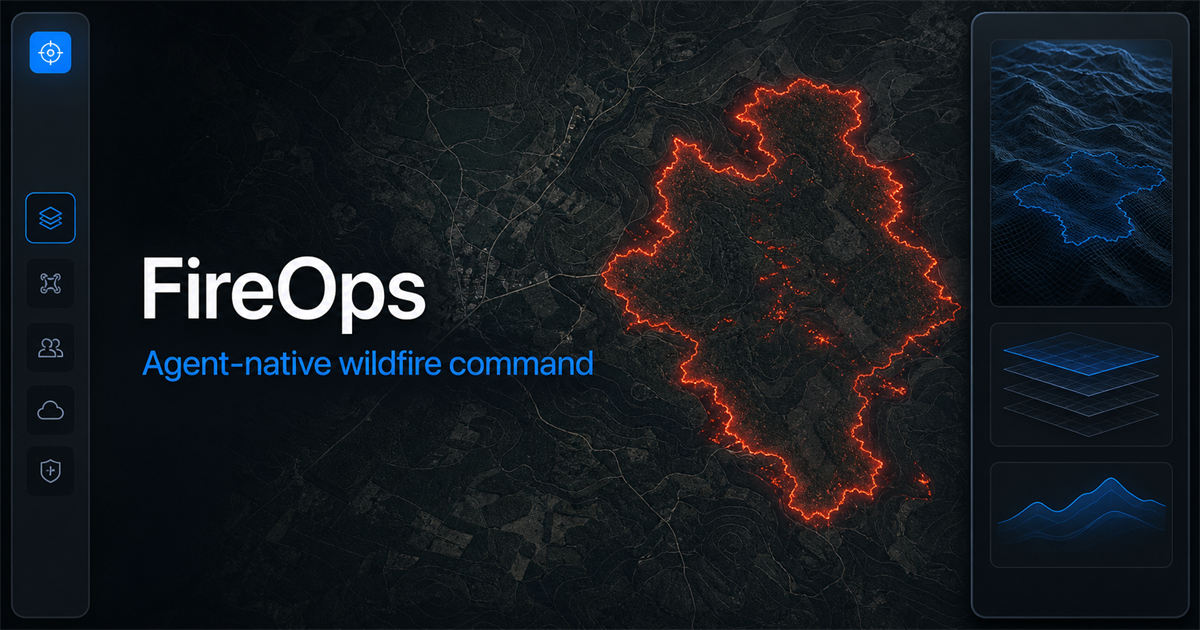
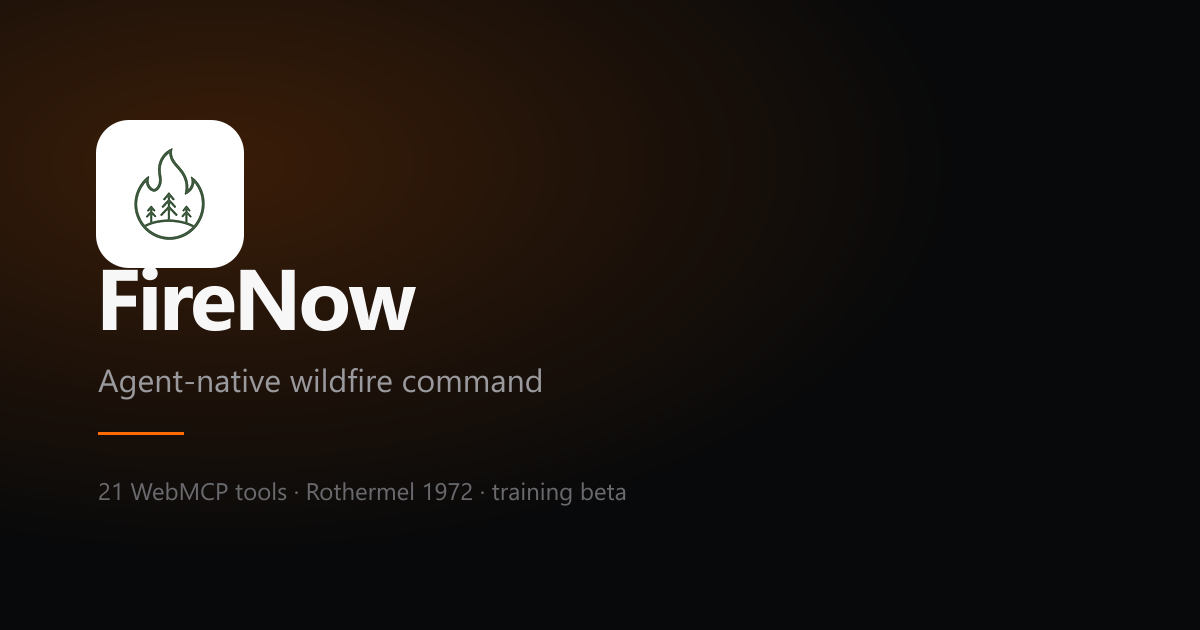
Rename the product to FireNow and build its marks from one source
The name changes everywhere it is user-visible or wire-visible: page title,
metadata, application name, session and CSRF cookie names, the worker's GeoJSON
provenance, the test harness hook, the package name and the licence holder.

Every icon now derives from a single file, brand/firenow.jpg, through
scripts/build-brand-assets.mjs. The mark is dark-green line art on white, which
reads on a light tile and vanishes on the near-black console, so the source is
turned into an alpha mask once and tinted twice: green for light surfaces, white
for dark ones. From that come the favicons at four sizes, the Apple touch icon
and a 1200x630 Open Graph card composed against the product palette.

The old favicon.svg was a generic blue placeholder unrelated to the product.

diff --git a/public/simulation.worker.js b/public/simulation.worker.js
@@ -1,4 +1,4 @@
-/* FireOps local wildfire engine: Rothermel (1972), Alexander (1985), 128 x 128 cellular grid. */
+/* FireNow local wildfire engine: Rothermel (1972), Alexander (1985), 128 x 128 cellular grid. */
 const GRID_SIZE = 128;
 // Nombre maximal de foyers secondaires acceptes en plus du foyer principal.
 const MAX_EXTRA_IGNITIONS = 16;
@@ -1140,18 +1140,18 @@ function ringsToGeoJSON(filled) {
 }
 function perimeterGeoJSON(sim) {
   const feature = ringsToGeoJSON((x, y) => sim.state[indexOf(x, y)] > 0);
-  feature.properties = { source: 'FireOps cellular simulation', layer: 'perimetre' };
+  feature.properties = { source: 'FireNow cellular simulation', layer: 'perimetre' };
   return feature;
 }
 // Bande en flammes : cellules encore dans leur temps de residence.
 function activeFrontGeoJSON(sim) {
   const feature = ringsToGeoJSON((x, y) => sim.state[indexOf(x, y)] === 1);
-  feature.properties = { source: 'FireOps cellular simulation', layer: 'front-actif' };
+  feature.properties = { source: 'FireNow cellular simulation', layer: 'front-actif' };
   return feature;
 }
 function extinguishedEdgeGeoJSON(sim) {
   const feature = ringsToGeoJSON((x, y) => sim.state[indexOf(x, y)] === 3);
-  feature.properties = { source: 'FireOps cellular simulation', layer: 'lisiere-eteinte' };
+  feature.properties = { source: 'FireNow cellular simulation', layer: 'lisiere-eteinte' };
   return feature;
 }
 function cloneState(sim){return{state:sim.state.slice(),arrival:sim.arrival.slice(),lowIntensitySince:sim.lowIntensitySince.slice(),constructedBreak:sim.constructedBreak.slice(),heldBreak:sim.heldBreak.slice(),lineProgressM:{...sim.lineProgressM},lineCellsBuilt:{...sim.lineCellsBuilt},explicitLinesReady:sim.explicitLinesReady,tacticalBurnsReady:sim.tacticalBurnsReady,fuel:sim.fuel.slice(),currentMinutes:sim.currentMinutes,ignition:sim.ignition,extraIgnitions:sim.extraIgnitions,infra:sim.infra,people:sim.people,network:sim.network,slope:sim.slope,aspect:sim.aspect,landscapeSources:sim.landscapeSources,landscapeAppliedCells:sim.landscapeAppliedCells};}
@@ -1321,5 +1321,5 @@ const key=configureDomain(input.domain);const domainChanged=key!==DOMAIN_KEY;DOM
 const independent=Boolean(input.independent);const sim=independent||input.reset||!scenario?createState({...(input.ignitionLngLat||{}),extraIgnitions:input.extraIgnitions,terrain:input.terrain,landscape:input.landscape}):scenario;const target=Number.isFinite(input.targetMinutes)?Math.max(0,input.targetMinutes):sim.currentMinutes+clamp(input.minutes||0,0,1440);// Avancer d'un bloc figerait les moyens sur le front du debut de pas. On
 // decoupe pour qu'ils se reportent au fur et a mesure, comme sur le terrain.
 const STEP=15;let spread,lastEnvironment=environmentAt(input,sim.currentMinutes);{let cursor=sim.currentMinutes;do{cursor=Math.min(target,cursor+STEP);lastEnvironment=environmentAt(input,cursor);spread=propagate(sim,lastEnvironment,cursor);}while(cursor<target);}if(!independent)scenario=sim;const result=resultFor(sim,lastEnvironment,spread);result.diurnal={hourOfDay:Number(lastEnvironment.hourOfDay.toFixed(2)),daylightFactor:Number(lastEnvironment.daylightFactor.toFixed(3)),wafScale:Number(lastEnvironment.wafScale.toFixed(3)),activeFraction:Number(lastEnvironment.activeFraction.toFixed(3))};if(input.includeForecast){const forecast=cloneState(sim);let projected=spread,forecastCursor=target,forecastEnvironment=lastEnvironment;while(forecastCursor<target+180){forecastCursor=Math.min(target+180,forecastCursor+STEP);forecastEnvironment=environmentAt(input,forecastCursor);projected=propagate(forecast,forecastEnvironment,forecastCursor);}result.forecastPerimeterGeoJSON=perimeterGeoJSON(forecast);result.forecastMinutes=target+180;result.forecastBurnedHa=Number((projected.affectedCells*CELL_METERS*CELL_METERS/10000).toFixed(2));}return result;}
-self.__fireopsTest={buildInfrastructure,decodeLandscape,landscapeIndexAt,localFireInput,NETWORKS,INFRA_TRACK,INFRA_ROAD,INFRA_BUILT,speciesAt,cellForLngLat,lngLatForCell,APPLIANCES,SPECIES,FUEL_MODELS,REGIONS,speciesMix,generateFuelMask,simulate,rothermelRateOfSpread,deriveMoisture,environmentAt,daylightProfile,firelineIntensity,sustainedFlowLpm,crossingDelayMinutes,APPLIANCES,GRID_SIZE,configureDomain,get IGNITION(){return IGNITION;},get CELL_METERS(){return CELL_METERS;}};
+self.__firenowTest={buildInfrastructure,decodeLandscape,landscapeIndexAt,localFireInput,NETWORKS,INFRA_TRACK,INFRA_ROAD,INFRA_BUILT,speciesAt,cellForLngLat,lngLatForCell,APPLIANCES,SPECIES,FUEL_MODELS,REGIONS,speciesMix,generateFuelMask,simulate,rothermelRateOfSpread,deriveMoisture,environmentAt,daylightProfile,firelineIntensity,sustainedFlowLpm,crossingDelayMinutes,APPLIANCES,GRID_SIZE,configureDomain,get IGNITION(){return IGNITION;},get CELL_METERS(){return CELL_METERS;}};
 self.onmessage=(event)=>{const message=event.data||{};try{self.postMessage({id:message.id,ok:true,result:simulate(message)});}catch(error){self.postMessage({id:message.id,ok:false,error:error instanceof Error?error.message:'Simulation worker error'});}};

diff --git a/app/layout.tsx b/app/layout.tsx
@@ -2,19 +2,27 @@ import type { Metadata } from 'next';
 import './globals.css';
 
 export const metadata: Metadata = {
-  title: 'FireOps — Commandement feux de forêt',
-  description: 'Simulateur agent-native d’aide à la décision pour les feux de forêt.',
-  applicationName: 'FireOps',
+  title: 'FireNow — Agent-native wildfire command',
+  description: 'Agent-native wildfire decision-support and training simulator. A WebMCP agent reads the situation and drafts a plan; a human commits it.',
+  applicationName: 'FireNow',
+  icons: {
+    icon: [
+      { url: '/favicon-32.png', sizes: '32x32', type: 'image/png' },
+      { url: '/favicon-192.png', sizes: '192x192', type: 'image/png' },
+      { url: '/icon-512.png', sizes: '512x512', type: 'image/png' },
+    ],
+    apple: [{ url: '/apple-touch-icon.png', sizes: '180x180', type: 'image/png' }],
+  },
   openGraph: {
-    title: 'FireOps',
+    title: 'FireNow',
     description: 'Agent-native wildfire command',
     type: 'website',
-    locale: 'fr_FR',
-    images: [{ url: '/og.png', width: 1200, height: 630, alt: 'FireOps — Agent-native wildfire command' }],
+    locale: 'en_US',
+    images: [{ url: '/og.png', width: 1200, height: 630, alt: 'FireNow — Agent-native wildfire command' }],
   },
   twitter: {
     card: 'summary_large_image',
-    title: 'FireOps',
+    title: 'FireNow',
     description: 'Agent-native wildfire command',
     images: ['/og.png'],
   },
@@ -26,12 +34,12 @@ export default function RootLayout({
   children: React.ReactNode;
 }>) {
   return (
-    <html lang="fr">
+    <html lang="en">
       <body>
-        {/* Le pont WebMCP doit exister avant l'hydratation : les outils de la
-            page s'enregistrent dessus des le premier rendu client, et un agent
-            injecte au chargement du document doit le trouver deja pose. Le
-            differer rouvrirait la course que ce fichier existe pour fermer. */}
+        {/* The WebMCP bridge has to exist before hydration: the page registers
+            its tools on it during the very first client render, and an agent
+            injected at document start must find it already in place. Deferring
+            it would reopen the race this file exists to close. */}
         {/* eslint-disable-next-line @next/next/no-sync-scripts */}
         <script src="/webmcp.js" />
         {children}

diff --git a/db/auth.ts b/db/auth.ts
@@ -3,8 +3,8 @@ import { cookies } from 'next/headers';
 import { argon2idAsync } from '@noble/hashes/argon2.js';
 import { authSchema } from './schema';
 
-const SESSION_COOKIE = 'fireops_session';
-const CSRF_COOKIE = 'fireops_csrf';
+const SESSION_COOKIE = 'firenow_session';
+const CSRF_COOKIE = 'firenow_csrf';
 const SESSION_SECONDS = 60 * 60 * 8;
 
 type UserRow = { id: string; email: string; password_hash: string };
@@ -142,7 +142,7 @@ export async function isPwnedPassword(password: string) {
   const suffix = digest.slice(5);
   try {
     const response = await fetch('https://api.pwnedpasswords.com/range/' + prefix, {
-      headers: { 'Add-Padding': 'true', 'User-Agent': 'FireOps-beta' },
+      headers: { 'Add-Padding': 'true', 'User-Agent': 'FireNow-beta' },
     });
     if (!response.ok) return false;
     const body = await response.text();
